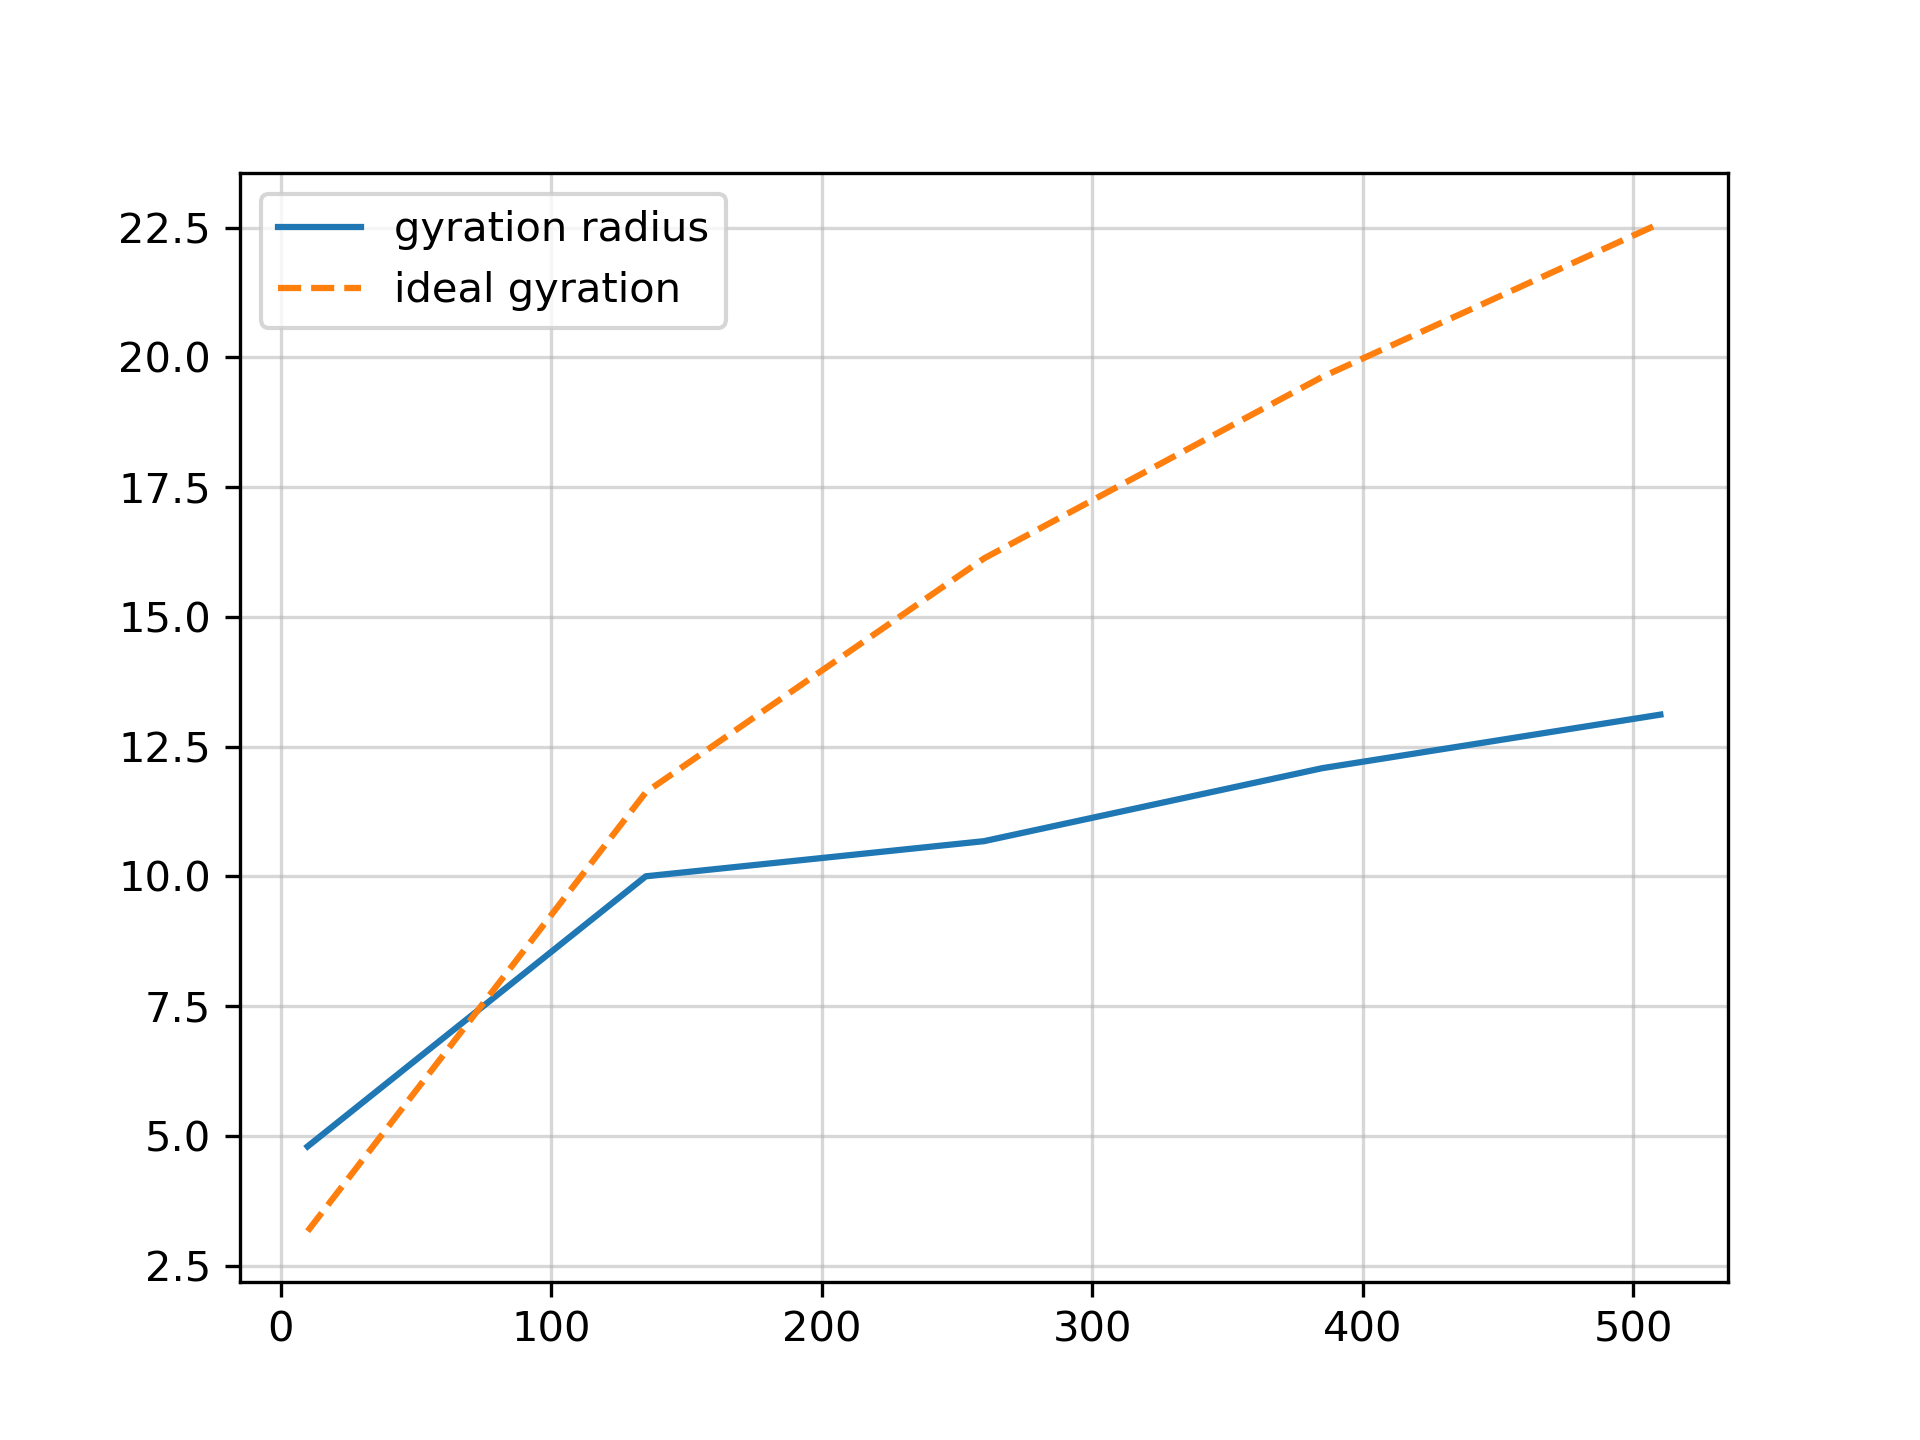
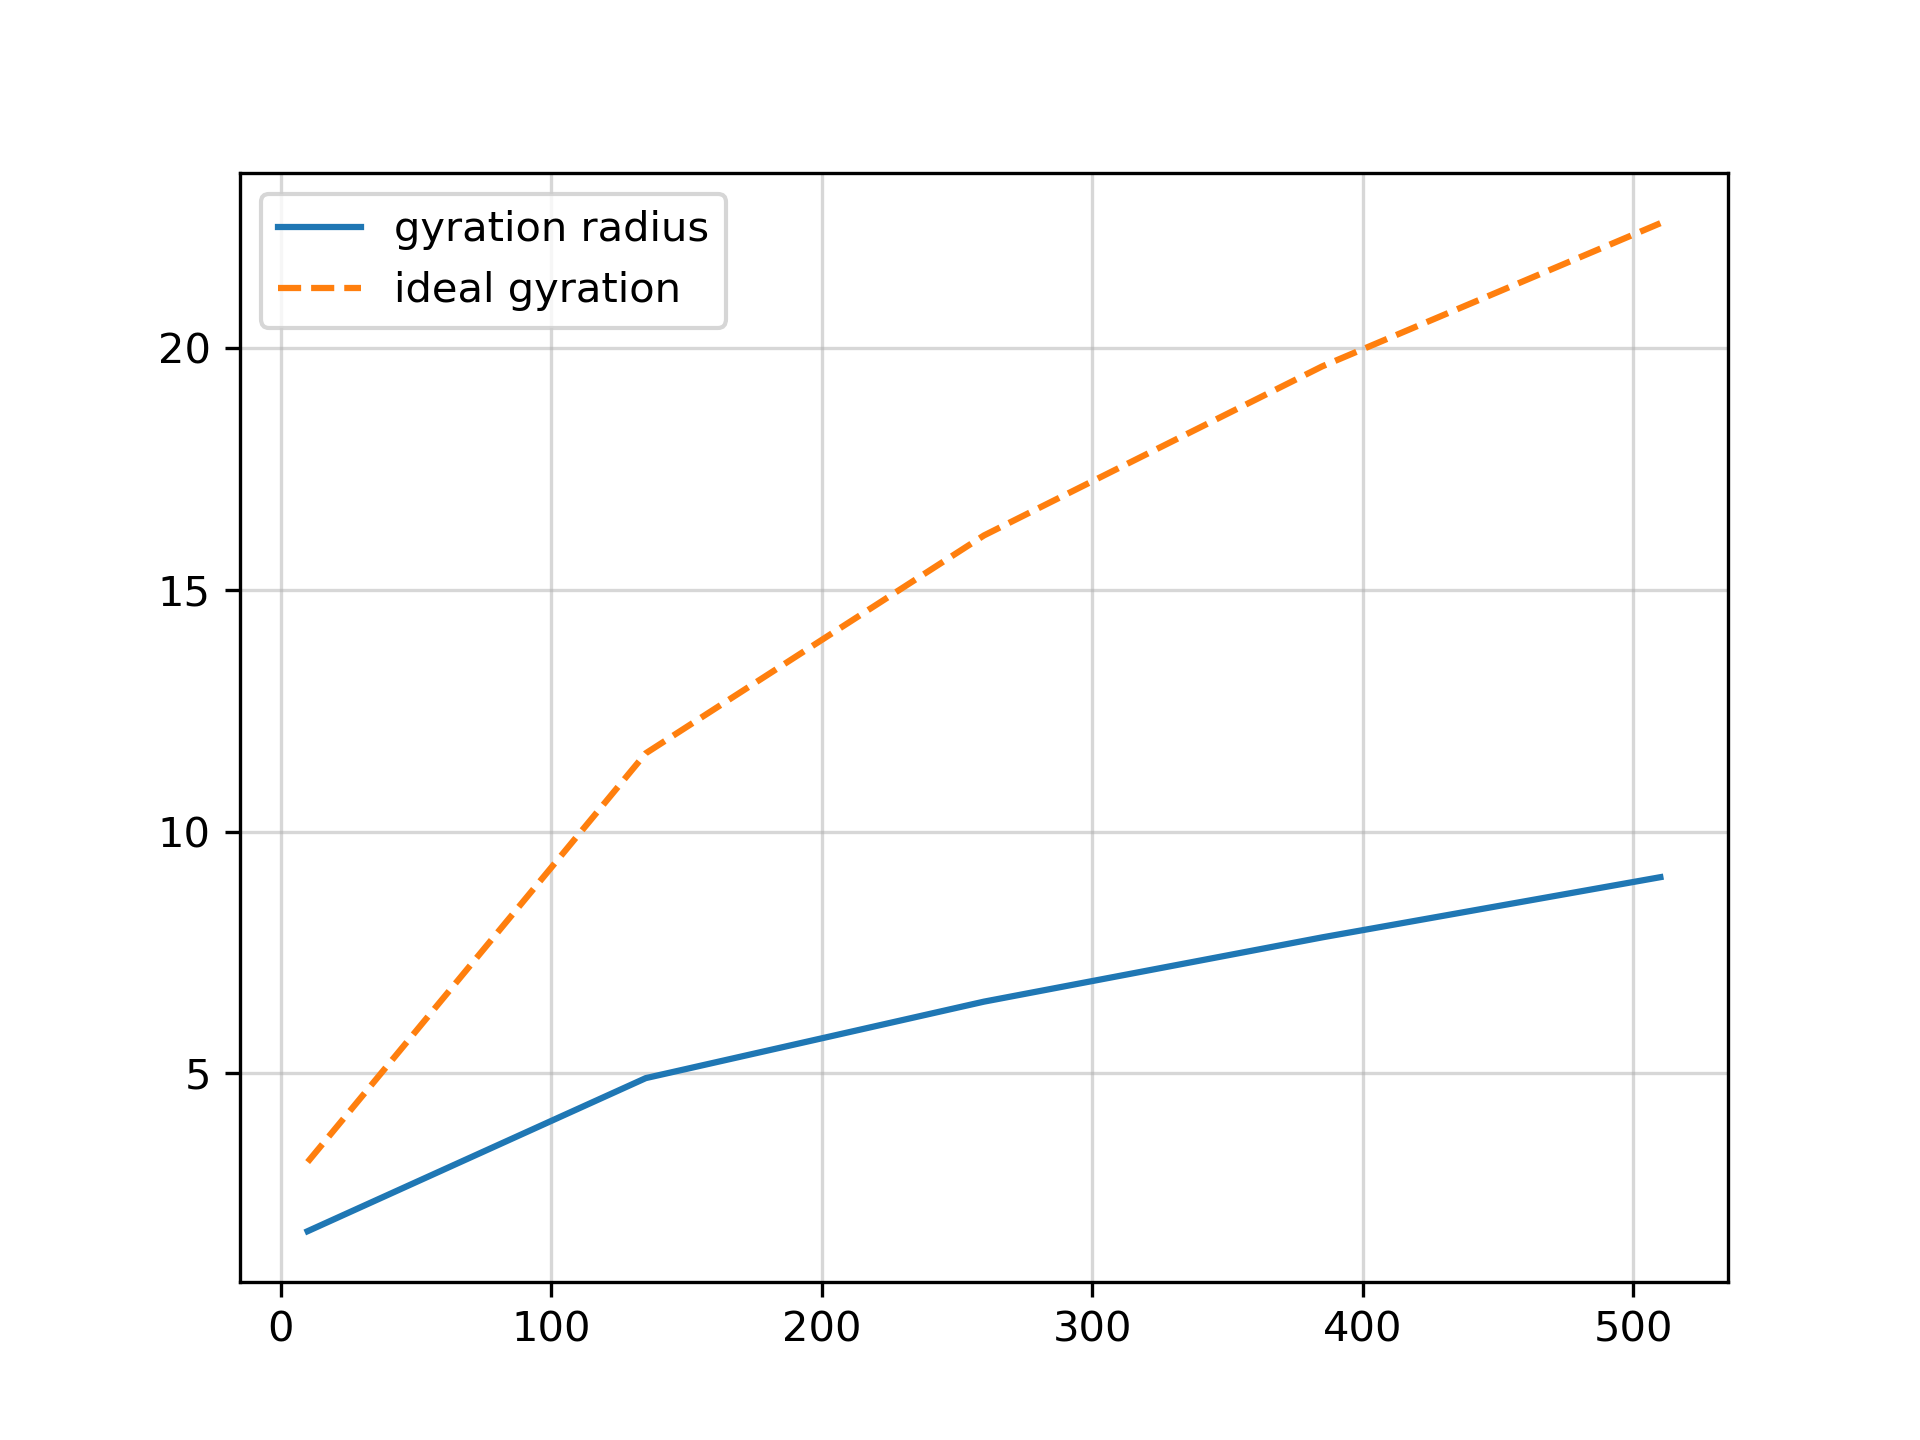
validation3, changed spring constant

diff --git a/assignment_3/polymer_engine.py b/assignment_3/polymer_engine.py
@@ -3,11 +3,10 @@ import numpy as np
 from mpl_toolkits.mplot3d import Axes3D
 from numba import njit
 from tqdm import tqdm
+from scipy import constants
 
-# TODO:
-#   - Implement simulated annealing and MCMC techinques
-#   - Somma delle energie
-#   - raccogliere tutte le posizioni per verificare varizione di posizione da prec a succ
+
+# TODO: Implement simulated annealing and MCMC techinques
 
 
 # Logging system
@@ -105,7 +104,12 @@ def check_positive(name: str, v: float):
 # Numba kernels
 @njit(fastmath=True)
 def _harmonic_kernel(
-    positions: np.ndarray, forces: np.ndarray, k: float, d0: float, energy: float = 0.0
+    positions: np.ndarray,
+    forces: np.ndarray,
+    k_B: float,
+    T: float,
+    d0: float,
+    energy: float = 0.0,
 ):
     n = positions.shape[0]
     # Caller ensures forces is zeroed
@@ -116,6 +120,17 @@ def _harmonic_kernel(
         r = np.sqrt(dx * dx + dy * dy + dz * dz)
         if r < 1e-12:
             continue
+
+        m1 = positions[0]
+        mn = positions[-1]
+        dx = m1[0] - mn[0]
+        dy = m1[1] - mn[1]
+        dz = m1[2] - mn[2]
+
+        b2 = dx * dx + dy * dy + dz * dz
+        b2 = b2 / positions.shape[0]
+
+        k = 3 * k_B * T / b2 / n
         fmag = -k * (r - d0)
         inv_r = 1.0 / r
         fx = fmag * dx * inv_r
@@ -199,18 +214,19 @@ def _langevin_kernel(
 # Functions to be called
 def compute_harmonic_forces(
     positions: np.ndarray,
-    k: float,
+    k_B: float,
+    T: float,
     d0: float,
     out: np.ndarray | None = None,
     energy: float = 0.0,
 ) -> np.ndarray:
     positions = ensure_positions(positions)
-    if not np.isfinite(k) or not np.isfinite(d0):
-        raise ValueError("k and d0 must be finite")
+    if not np.isfinite(d0):
+        raise ValueError("d0 must be finite")
     out = ensure_forces_buffer_like(positions, out)
     out.fill(0.0)
     LOGGER.log("DEBUG", "Computing harmonic forces", tag="harmonic")
-    _harmonic_kernel(positions, out, k, d0, energy=energy)
+    _harmonic_kernel(positions, out, k_B, T, d0, energy=energy)
     LOGGER.log("DEBUG", f"Forces sample: {out[:3]}", tag="harmonic")
     LOGGER.log("DEBUG", f"Energy sample: {energy}", tag="harmonic")
 
@@ -279,7 +295,6 @@ def langevin_step(
 def simulate(
     positions: np.ndarray,
     steps: int,
-    k: float,
     d0: float,
     epsilon: float,
     sigma: float,
@@ -311,7 +326,7 @@ def simulate(
             LOGGER.log("INFO", f"[step {step}]", tag="sim")
 
         # Fill preallocated buffers
-        compute_harmonic_forces(positions, k, d0, out=f_h, energy=energy[1])
+        compute_harmonic_forces(positions, k_B, T, d0, out=f_h, energy=energy[1])
 
         if not ideal_chain:
             compute_lj_forces(
@@ -443,38 +458,36 @@ def validation_simulation():
 if __name__ == "__main__":
     set_log_level("ERROR")  # ERROR, WARN, INFO, DEBUG
     set_log_output("sim.log")  # or None
-
-    # N = 10
-    # pos = np.random.randn(N, 3).astype(np.float64)
-    # final = simulate(
-    #     positions=pos,
-    #     steps=1000,
-    #     k=10.0,
-    #     d0=1.0,
-    #     epsilon=1.0,
-    #     sigma=1.0,
-    #     gamma=1.0,
-    #     k_B=1.0,
-    #     T=1.0,
-    #     dt=0.01,
-    # )
-
+    """
+    N = 10
+    pos = np.random.randn(N, 3).astype(np.float64)
+    final = simulate(
+        positions=pos,
+        steps=1000,
+        d0=1.0,
+        epsilon=1.0,
+        sigma=1.0,
+        gamma=1.0,
+        k_B=1.0,
+        T=1.0,
+        dt=0.01,
+    )
+    """
     # ================================================================
     # Validation - ideal chain
     # ================================================================
 
     DIFFUSION_VAL = False
-    RADIUS_VAL = False
+    RADIUS_VAL = True
     BOND_VAL = False
     BOND_VAR_VAL = False
 
     sigma = 1
     epsilon = 1
-    k = 1  # * epsilon / sigma / sigma
     d0 = 0.95  # * sigma
     gamma = 0.75
-    k_B = 1
-    T = 5
+    k_B = constants.Boltzmann
+    T = 300
     dt = 1e-4
 
     if DIFFUSION_VAL:
@@ -493,7 +506,6 @@ if __name__ == "__main__":
                 final = simulate(
                     positions=pos_start,
                     steps=1,
-                    k=k,
                     d0=d0,
                     epsilon=epsilon,
                     sigma=sigma,
@@ -518,20 +530,20 @@ if __name__ == "__main__":
         plt.close()
 
     if RADIUS_VAL:
-        N = np.linspace(10, 510, 10, dtype=int)
+        N = np.linspace(10, 510, 5, dtype=int)
         r_ee2_collector = np.zeros_like(N)
         r_g2_collector = np.zeros_like(N)
 
-        steps_equil = 200000
-        steps_sample = 10000
-        reps = 40
+        steps_equil = 0
+        steps_sample = 1000
+        reps = 50
 
         for i in tqdm(range(len(N))):
             n = N[i]
             Ree2 = 0
             Rg2 = 0
 
-            for r in range(reps):
+            for r in tqdm(range(reps)):
                 positions = np.zeros((n, 3))
                 for j in range(1, n):
                     displacement = np.random.randn(3)
@@ -541,11 +553,11 @@ if __name__ == "__main__":
 
                 positions -= positions.mean(axis=0)
 
+                b2 = end_to_end_radius2(positions) / n
                 # equilibrium
                 positions = simulate(
                     positions=positions,
                     steps=steps_equil,
-                    k=k,
                     d0=d0,
                     epsilon=epsilon,
                     sigma=sigma,
@@ -564,7 +576,6 @@ if __name__ == "__main__":
                     positions = simulate(
                         positions,
                         steps=1,
-                        k=k,
                         d0=d0,
                         epsilon=epsilon,
                         sigma=sigma,
@@ -590,10 +601,8 @@ if __name__ == "__main__":
         plt.savefig("img/gyration_val.png", dpi=300)
         plt.close()
 
-        plt.plot(N, r_ee2_collector, label="end to end radius")
-        plt.plot(
-            N, 3 * k_B * T / k * np.ones_like(N), label="ideal end to end", ls="--"
-        )
+        plt.plot(N, np.sqrt(r_ee2_collector), label="end to end radius")
+        plt.plot(N, np.sqrt(N), label="ideal end to end", ls="--")
 
         plt.grid(alpha=0.5)
         plt.legend()
@@ -614,7 +623,6 @@ if __name__ == "__main__":
                 final = simulate(
                     positions=pos,
                     steps=steps,
-                    k=k,
                     d0=d0,
                     epsilon=epsilon,
                     sigma=sigma,
@@ -650,7 +658,6 @@ if __name__ == "__main__":
                 final = simulate(
                     positions=pos,
                     steps=steps,
-                    k=k,
                     d0=d0,
                     epsilon=epsilon,
                     sigma=sigma,
